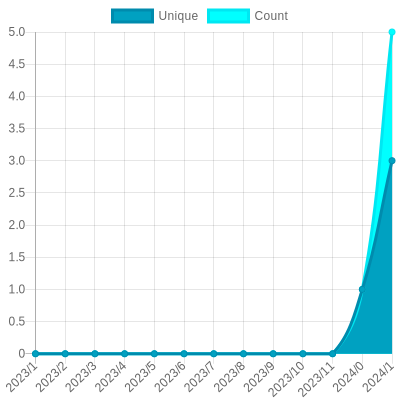
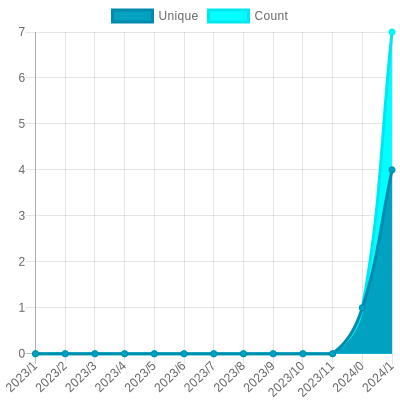
Update views

diff --git a/readme/546116981/year.md b/readme/546116981/year.md
@@ -23,10 +23,10 @@
 			<code>2023/2/1</code>
 		</td>
 		<td>
-			<code>3</code>
+			<code>4</code>
 		</td>
 		<td>
-			<code>5</code>
+			<code>7</code>
 		</td>
 	</tr>
 	<tr>
@@ -164,7 +164,7 @@
 </table>
 
 </details>
-<small><i>Last updated on 2023/2/14 6:14 AM UTC</i></small>
+<small><i>Last updated on 2023/2/14 12:21 PM UTC</i></small>
 
 ## ✂Copy and 📋 Paste
 ### SVG Badge

diff --git a/README.md b/README.md
@@ -229,7 +229,7 @@ The project created and maintained by [gayanvoice](https://github.com/gayanvoice
 	</tr>
 </table>
 
-<small><i>Last updated on 2023/2/14 6:15 AM UTC</i></small>
+<small><i>Last updated on 2023/2/14 12:21 PM UTC</i></small>
 
 ## ✂Copy and 📋 Paste
 ### Total Views Badge

diff --git a/readme/316180162/year.md b/readme/316180162/year.md
@@ -164,7 +164,7 @@
 </table>
 
 </details>
-<small><i>Last updated on 2023/2/14 6:15 AM UTC</i></small>
+<small><i>Last updated on 2023/2/14 12:21 PM UTC</i></small>
 
 ## ✂Copy and 📋 Paste
 ### SVG Badge

diff --git a/readme/362981091/year.md b/readme/362981091/year.md
@@ -164,7 +164,7 @@
 </table>
 
 </details>
-<small><i>Last updated on 2023/2/14 6:14 AM UTC</i></small>
+<small><i>Last updated on 2023/2/14 12:20 PM UTC</i></small>
 
 ## ✂Copy and 📋 Paste
 ### SVG Badge

diff --git a/readme/434670985/year.md b/readme/434670985/year.md
@@ -164,7 +164,7 @@
 </table>
 
 </details>
-<small><i>Last updated on 2023/2/14 6:13 AM UTC</i></small>
+<small><i>Last updated on 2023/2/14 12:19 PM UTC</i></small>
 
 ## ✂Copy and 📋 Paste
 ### SVG Badge

diff --git a/readme/441395757/year.md b/readme/441395757/year.md
@@ -164,7 +164,7 @@
 </table>
 
 </details>
-<small><i>Last updated on 2023/2/14 6:14 AM UTC</i></small>
+<small><i>Last updated on 2023/2/14 12:20 PM UTC</i></small>
 
 ## ✂Copy and 📋 Paste
 ### SVG Badge

diff --git a/readme/447688402/year.md b/readme/447688402/year.md
@@ -164,7 +164,7 @@
 </table>
 
 </details>
-<small><i>Last updated on 2023/2/14 6:14 AM UTC</i></small>
+<small><i>Last updated on 2023/2/14 12:21 PM UTC</i></small>
 
 ## ✂Copy and 📋 Paste
 ### SVG Badge

diff --git a/readme/507267464/year.md b/readme/507267464/year.md
@@ -164,7 +164,7 @@
 </table>
 
 </details>
-<small><i>Last updated on 2023/2/14 6:13 AM UTC</i></small>
+<small><i>Last updated on 2023/2/14 12:20 PM UTC</i></small>
 
 ## ✂Copy and 📋 Paste
 ### SVG Badge

diff --git a/readme/526719056/year.md b/readme/526719056/year.md
@@ -164,7 +164,7 @@
 </table>
 
 </details>
-<small><i>Last updated on 2023/2/14 6:13 AM UTC</i></small>
+<small><i>Last updated on 2023/2/14 12:19 PM UTC</i></small>
 
 ## ✂Copy and 📋 Paste
 ### SVG Badge

diff --git a/readme/527266453/year.md b/readme/527266453/year.md
@@ -164,7 +164,7 @@
 </table>
 
 </details>
-<small><i>Last updated on 2023/2/14 6:13 AM UTC</i></small>
+<small><i>Last updated on 2023/2/14 12:19 PM UTC</i></small>
 
 ## ✂Copy and 📋 Paste
 ### SVG Badge

diff --git a/readme/556226503/year.md b/readme/556226503/year.md
@@ -164,7 +164,7 @@
 </table>
 
 </details>
-<small><i>Last updated on 2023/2/14 6:13 AM UTC</i></small>
+<small><i>Last updated on 2023/2/14 12:19 PM UTC</i></small>
 
 ## ✂Copy and 📋 Paste
 ### SVG Badge

diff --git a/readme/567431330/year.md b/readme/567431330/year.md
@@ -164,7 +164,7 @@
 </table>
 
 </details>
-<small><i>Last updated on 2023/2/14 6:14 AM UTC</i></small>
+<small><i>Last updated on 2023/2/14 12:20 PM UTC</i></small>
 
 ## ✂Copy and 📋 Paste
 ### SVG Badge
